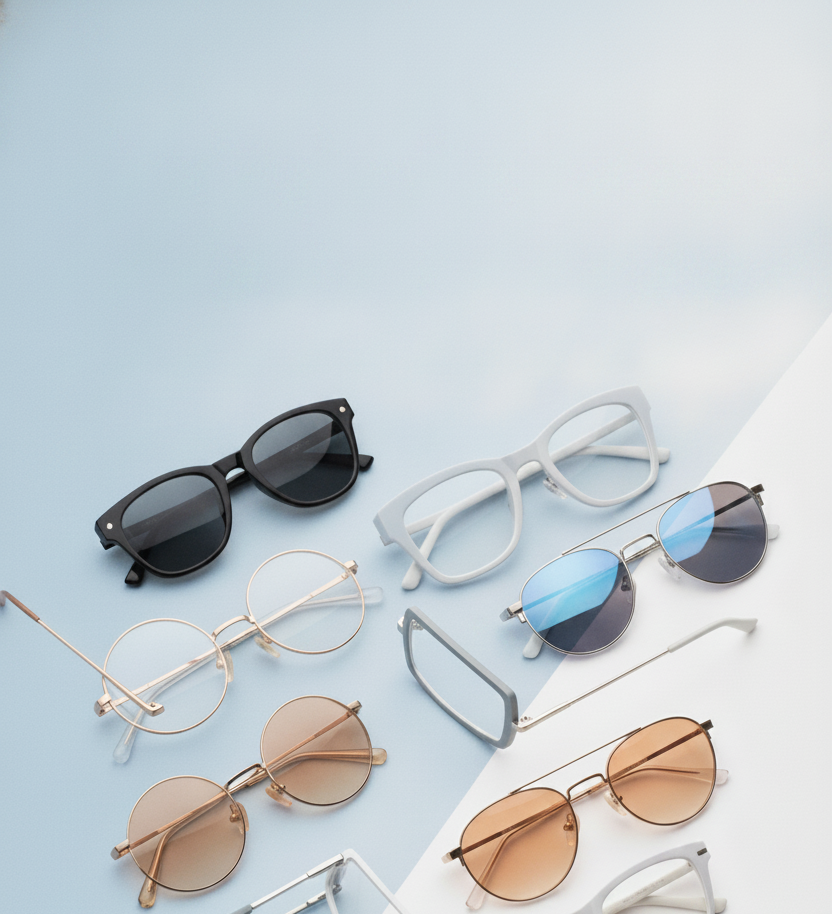
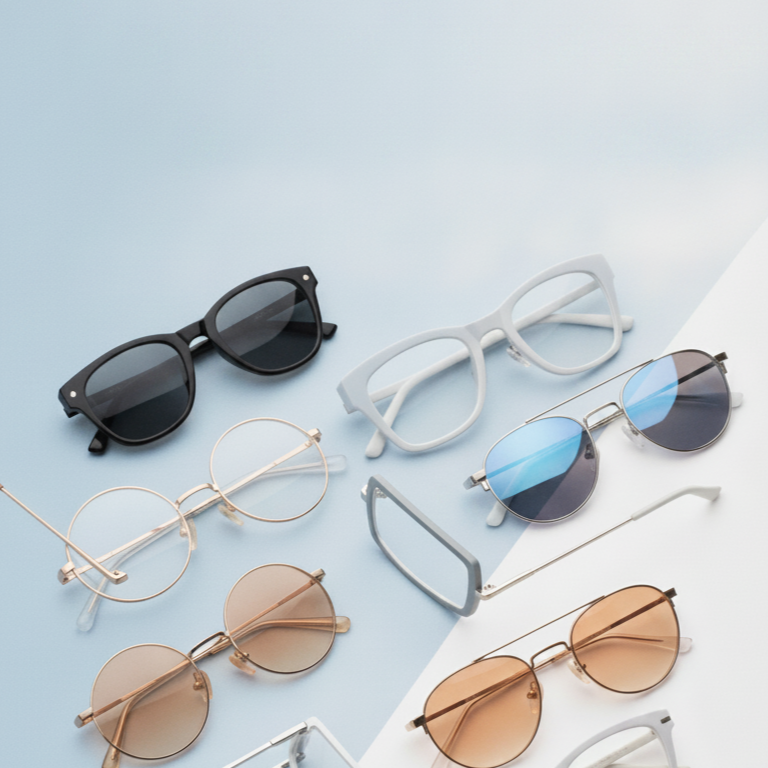
feat : css 구현

Changed region(s): [[0.0625, 0.3438, 0.9688, 1.0], [0.0, 0.625, 0.0625, 0.6875], [0.0, 0.0, 0.0312, 0.0312]]

diff --git a/css/index.css b/css/index.css
@@ -1,0 +1,73 @@
+
+  .container {
+    padding: 16px 8px;
+  }
+
+/* AI 섹션 */
+.guide-card {
+  position: relative; /* 자식 요소들을 이 상자 기준으로 배치하기 위해 (★필수) */
+  width: 100%; /* 디자인에 맞는 카드 높이 */
+  border-radius: 10px 10px 0 0;
+  overflow: hidden;
+  scroll-snap-align: center;    /* 스크롤 멈출 때 화면 중앙에 카드 고정 */
+    box-sizing: border-box;
+    flex: 0 0 100%;
+}
+
+.guide-card-img {
+  width: 100%;
+  height: 100%;
+  object-fit: cover;
+  position: absolute;
+}
+.container .guide-text {
+  position: absolute; /* 부모를 기준으로 절대적인 위치에 배치 (★필수) */
+  top: 0;
+  left: 0;
+  width: 100%;
+  height: 100%;
+  background: linear-gradient(to bottom, #eff6ff99, transparent);
+  box-sizing: border-box;
+}
+
+.guide-text {
+  padding-top: calc(var(--base-unit) * 2);
+}
+.tag span {
+  background-color: var(--color-point);
+  color: var(--color-white);
+  border-radius: 5px;
+  padding: 0 4px;
+}
+.text-content {
+  padding: calc(var(--base-unit) * 0.5) calc(var(--base-unit) * 0.5);
+}
+
+.ai-btn {
+  background: var(--color-black);
+  color: var(--color-white);
+  border-radius: 4px;
+  padding: calc(var(--base-unit) * 0.5) calc(var(--base-unit) * 0.5);}
+
+/* 태블릿 반응형 */
+@media (min-width: 768px) {
+}
+
+/* PC 반응형 */
+@media (min-width: 1024px) {
+}
+/* 모바일 */
+@media (max-width: 480px) {
+  /* 카드들을 감싸는 부모 컨테이너를 가로 슬라이드 통로로 만듭니다 */
+  .container.g-4.d-flex {
+    width: 100%;
+    overflow-x: auto;             /* 가로 스크롤 허용 */
+    scroll-behavior: smooth;      /* 스크롤 이동 시 부동 애니메이션 */
+    scroll-snap-type: x mandatory;  /* 가로 스냅 강제 활성화 */
+    
+    /* 모바일 스크롤바 숨기기 */
+    -ms-overflow-style: none;/* IE */
+    scrollbar-width: none;/* 파이어폭스 */
+  }
+
+  /* brand 섹션 */

diff --git a/index.html b/index.html
@@ -13,21 +13,22 @@
     <link rel="stylesheet" href="css/common.css" />
     <link rel="stylesheet" href="css/font-utility.css" />
     <link rel="stylesheet" href="css/flex-utility.css" />
+    <link rel="stylesheet" href="css/index.css" />
   </head>
 
   <body>
     <!-- 권유진 -->
 
     <section class="guide">
-      <div class="container g-4 d-flex">
-        <article class="guide-card g-2">
+      <div class="container g-4 d-flex text-center">
+        <article class="guide-card d-flex flex-column g-2">
           <img src="img/main_AI_3.png" alt="AI 얼굴형 분석" />
 
           <div class="guide-text typo-m-header-l">
             <h2>당신의 얼굴형,<br />AI가 분석해드립니다.</h2>
           </div>
-          <div>
-            <div class="guide-text typo-m-caption">
+          <div class="text-content d-flex flex-column align-items-center g-1">
+            <div class="tag typo-m-caption d-flex g-2 justify-content-center">
               <span>정밀 분석</span>
               <span>맞춤 프레임 추천</span>
             </div>
@@ -39,17 +40,18 @@
               빠르게 찾아보세요!
             </p>
 
-            <a href="#" class="btn typo-m-btn-l">START NOW</a>
+            <a href="#" class="ai-btn typo-m-btn-l">START NOW</a>
           </div>
         </article>
 
-        <article class="guide-card g-2">
+        <article class="guide-card d-flex flex-column g-2">
           <img src="img/main_AI_2.png" alt="가상 피팅" />
 
           <div class="guide-text typo-m-header-l">
             <h2>사진으로 쉽고 빠른<br />안경 가상 피팅</h2>
-
-            <div class="tag typo-m-caption">
+          </div>
+          <div class="text-content d-flex flex-column align-items-center g-1">
+            <div class="tag typo-m-caption d-flex g-2 justify-content-center">
               <span>간편 분석</span>
               <span>언제 어디서나 빠른 추천</span>
             </div>
@@ -61,29 +63,29 @@
               나만의 스타일을 발견해 보세요!
             </p>
 
-            <a href="#" class="btn typo-m-btn-l">TRY NOW</a>
+            <a href="#" class="ai-btn typo-m-btn-l">TRY NOW</a>
           </div>
         </article>
 
-        <article class="guide-card g-2">
+        <article class="guide-card d-flex flex-column g-2">
           <img src="img/main_AI_1.png" alt="안경 가이드" />
 
           <div class="guide-text typo-m-header-l">
             <h2>다양한 얼굴형에<br />맞춘 안경 가이드</h2>
-
-            <div class="tag typo-m-caption">
+          </div>
+          <div class="text-content d-flex flex-column align-items-center g-1">
+            <div class="tag typo-m-caption d-flex g-2 justify-content-center">
               <span>얼굴형별 추천 프레임</span>
               <span>다양한 스타일 검색</span>
             </div>
-
             <p class="typo-m-body-s g-1">
               둥근형, 각진형, 긴형 등 얼굴형별 추천 안경테를 확인하고 다양한 디자인을<br />
               비교할 수 있습니다.<br />
               다양한 프레임을 살펴보고 나만의 스타일을<br />
-              완성해 보세요.
+              완성해 보세요!
             </p>
 
-            <a href="#" class="btn typo-m-btn-l">EXPLORE</a>
+            <a href="#" class="ai-btn typo-m-btn-l">EXPLORE</a>
           </div>
         </article>
       </div>
@@ -92,7 +94,7 @@
     <section class="best">
       <div class="container g-3">
         <div class="best-header d-flex justify-content-between">
-          <h2 class="best-title m-header-l">
+          <h2 class="best-title typo-m-header-l">
             <span>BEST</span>
             <span>베스트셀러</span>
           </h2>
@@ -100,7 +102,7 @@
           <a href="#" class="best-link g-1">
             <span class="typo-m-btn-m">VIEW ALL</span>
             <span class="typo-m-icons-s-o">arrow_forward</span>
-            <link rel="stylesheet" href="" />
+            <link rel="stylesheet" href="#" />
           </a>
         </div>
 
@@ -225,7 +227,7 @@
           <a href="#" class="brand-link">
             <span class="typo-m-btn-m">VIEW ALL</span>
             <span class="typo-m-icons-s-o">arrow_forward</span>
-            <link rel="stylesheet" href="" />
+            <link rel="stylesheet" href="#" />
           </a>
         </div>
 
@@ -252,12 +254,12 @@
           <a href="#" class="store__link">
             <span class="typo-m-btn-m">VIEW ALL</span>
             <span class="typo-m-icons-s-o">arrow_forward</span>
-            <link rel="stylesheet" href="" />
+            <link rel="stylesheet" href="#" />
           </a>
         </div>
 
         <div class="store-preview-img">
-          <img src="./images/rounz-store.jpg" alt="라운즈 오프라인 매장 전경" />
+          <img src="img/offline_slide_7.webp" alt="라운즈 오프라인 매장 전경" />
         </div>
 
         <form class="store-search-form">
@@ -481,5 +483,7 @@
         </div>
       </div>
     </section>
+    <script src="./js/utils/common.js"></script>
+    <script src="js/utils/index.js"></script>
   </body>
 </html>